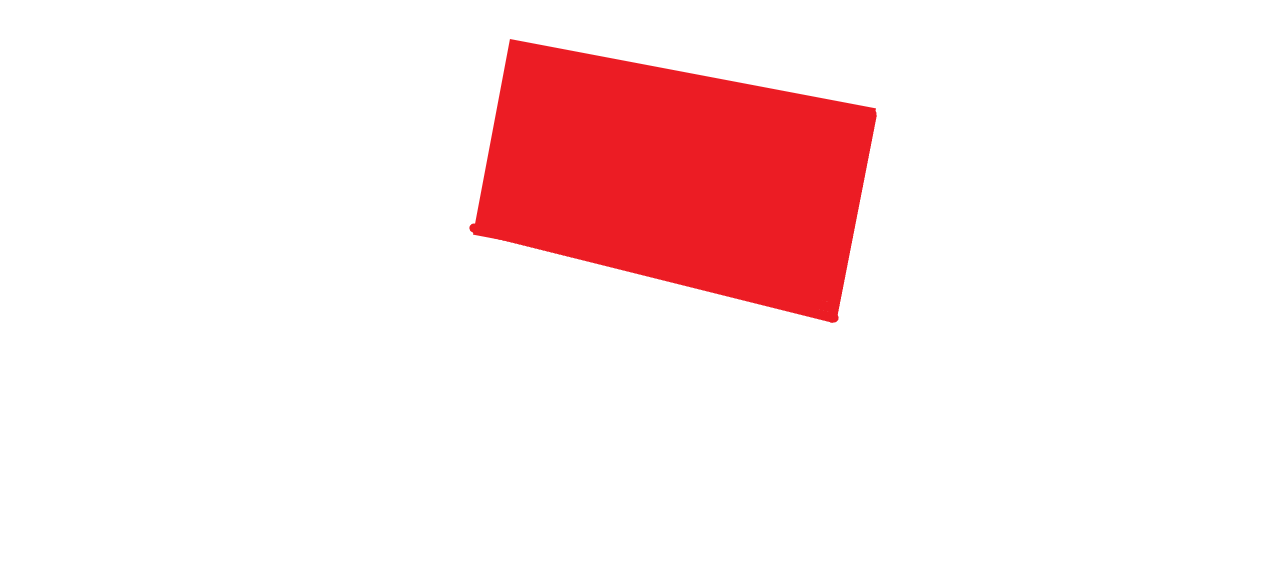
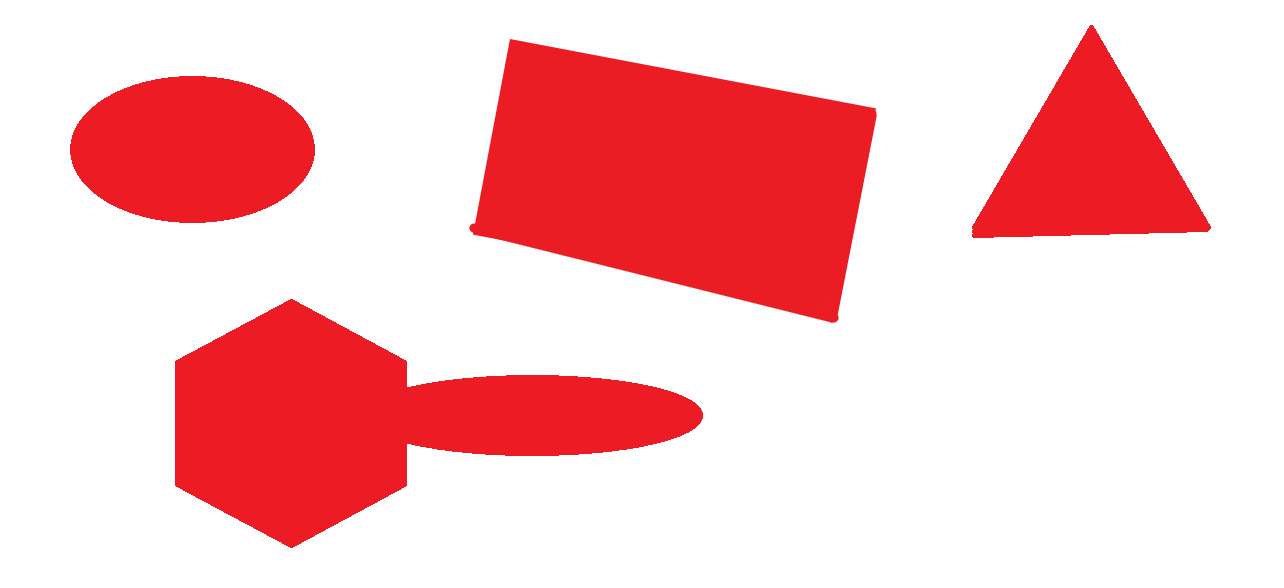
fixing bounding circles

Changed region(s): [[0.1246, 0.4898, 0.5607, 0.949], [0.0312, 0.1224, 0.2492, 0.398], [0.7477, 0.0306, 0.9657, 0.4286]]

diff --git a/src/ImageProcessing/Windows/MainWindow.xaml b/src/ImageProcessing/Windows/MainWindow.xaml
@@ -19,7 +19,9 @@
         <Menu Grid.Row="0" Grid.Column="0" Grid.ColumnSpan="2" >
             <MenuItem Header="Image" >
                 <MenuItem Header="Load" Click="LoadImage_Click"/>
-                <MenuItem Header="Process" Click="ProcessImage_Click"/>
+                <MenuItem Header="Find rectangles" Click="FindRectangles_Click"/>
+                <MenuItem Header="Find ovals" Click="FindOvals_Click"/>
+                <MenuItem Header="Find triangles" Click="FindTriangles_Click"/>
                 <MenuItem Header="Remove noise" Click="RemoveNoise_Click"/>
 
             </MenuItem>

diff --git a/src/ImageProcessing.Core/Services/ImageProcessingService.cs b/src/ImageProcessing.Core/Services/ImageProcessingService.cs
@@ -11,7 +11,7 @@ namespace ImageProcessing.Core.Services;
 
 public class ImageProcessingService : IImageProcessingService
 {
-    
+
     private static List<List<Point>> DetectObjects(PixelHsv[,] pixels, Predicate<PixelHsv> condition)
     {
         var result = new List<List<Point>>();
@@ -57,11 +57,11 @@ public class ImageProcessingService : IImageProcessingService
             var p1 = boundingPoints[i];
 
 
-            for (int j= i+20; j < boundingPoints.Count; j++)
+            for (int j = i + 20; j < boundingPoints.Count; j++)
             {
                 var p2 = boundingPoints[j];
                 var dist = Point.CalculateDistance(p1, p2);
-                if(dist > longestDistance)
+                if (dist > longestDistance)
                 {
                     extremeP1 = p1;
                     extremeP2 = p2;
@@ -176,18 +176,53 @@ public class ImageProcessingService : IImageProcessingService
     //    return new Ellipse(rect, angle, center);
     //}
 
-    private Ellipse GetBoundingCircle (List<Point> obj, PixelHsv[,] pixels, Predicate<PixelHsv> condition)
+    private Ellipse GetBoundingCircle(List<Point> obj, PixelHsv[,] pixels, Predicate<PixelHsv> condition)
     {
-        var (p1, p2, diameter) = GetExtremePoints(obj, pixels, condition);
+        var (center, radius) = FindBoundingCircle(obj, pixels, condition);
+        //var (p1, p2, diameter) = GetExtremePoints(obj, pixels, condition);
+        pixels[center.Row, center.Column].H = 150;
+        pixels[center.Row+1, center.Column].H = 150;
+        pixels[center.Row, center.Column+1].H = 150;
+        pixels[center.Row, center.Column-1].H = 150;
+        pixels[center.Row-1, center.Column].H = 150;
 
-        Size size = new Size(diameter, diameter);
-        System.Drawing.Point center = new System.Drawing.Point((p1.Column + p2.Column) / 2, (p1.Row + p2.Row) / 2);
+        Size size = new Size(radius*2, radius*2);
+        System.Drawing.Point drawingCenter = new System.Drawing.Point(center.Column, center.Row);
+            //new System.Drawing.Point((p1.Column + p2.Column) / 2, (p1.Row + p2.Row) / 2);
 
-        int h2 = size.Height / 2;
-        int w2 = size.Width / 2;
+        //int h2 = size.Height;
+        //int w2 = size.Width;
 
-        System.Drawing.Rectangle rect = new System.Drawing.Rectangle(new System.Drawing.Point(center.X - w2, center.Y - h2), size);
-        return new Ellipse(rect, 0f, center);
+        System.Drawing.Rectangle rect = new System.Drawing.Rectangle(new System.Drawing.Point(drawingCenter.X - radius, drawingCenter.Y - radius), size);
+        return new Ellipse(rect, 0f, drawingCenter);
+    }
+
+    private (Point center, int diameter) FindBoundingCircle(List<Point> obj, PixelHsv[,] pixels, Predicate<PixelHsv> condition)
+    {
+        var avgColumn = (int)obj.Average(p => p.Column);
+        var avgRow = (int)obj.Average(p => p.Row);
+
+        var center = new Point(avgRow, avgColumn);
+
+        var maxDistance = -1;
+
+        foreach (var p in obj)
+        {
+            if (p.Row != 0 && p.Row != pixels.GetLength(0) && p.Column != 0 && p.Column != pixels.GetLength(1) &&
+                condition(pixels[p.Row, p.Column - 1]) &&
+                condition(pixels[p.Row, p.Column + 1]) &&
+                condition(pixels[p.Row - 1, p.Column]) &&
+                condition(pixels[p.Row + 1, p.Column]))
+                continue;
+
+            var dist = Point.CalculateDistance(center, p);
+            if (dist > maxDistance)
+            {
+                maxDistance = dist;
+            }
+        }
+
+        return (center, maxDistance);
     }
 
     //private static IEnumerable<Rectangle> FindRectangles(PixelRgb[,] pixels)
@@ -266,7 +301,35 @@ public class ImageProcessingService : IImageProcessingService
     //    return new Rectangle(c, r, endC - c, endR - r);
     //}
 
-    public void ProcessPixels(Bitmap bitmap)
+    public void FindRectangles(Bitmap bitmap)
+    {
+        using var image = new BitmapLockAdapter(bitmap);
+
+        var hsv = image.ReadPixels().AsHsv();
+        Predicate<PixelHsv> predicate = p => p.IsWithinBounds(new PixelHsv(330, 0.3f, 0.3f), new PixelHsv(360, 1, 1)) ||
+                                             p.IsWithinBounds(new PixelHsv(0, 0.3f, 0.3f), new PixelHsv(30, 1, 1));
+        var objects = DetectObjects(hsv, predicate);
+
+        foreach (var obj in objects)
+        {
+            var rect = GetInsideRectangle(obj);
+
+            if (rect != null && rect.Area > obj.Count * 0.9f)
+            {
+                foreach (var (r, c) in obj)
+                {
+                    hsv[r, c].H = 110;
+                }
+            }
+        }
+        image.WritePixels(hsv
+            //.Cover(new PixelHsv(330, 0.3f, 0.3f), new PixelHsv(360, 1, 1), new PixelHsv(110, 0.95f, 0.95f))
+            //.Cover(new PixelHsv(0, 0.3f, 0.3f), new PixelHsv(30, 1, 1), new PixelHsv(110, 0.95f, 0.95f))
+            .AsRgb()
+        );
+    }
+
+    public void ShowBoundingCircles(Bitmap bitmap)
     {
         var ellipses = new List<Ellipse>();
 
@@ -279,16 +342,6 @@ public class ImageProcessingService : IImageProcessingService
 
             foreach (var obj in objects)
             {
-                var rect = GetInsideRectangle(obj);
-
-                if (rect != null && rect.Area > obj.Count * 0.9f)
-                {
-                    foreach (var (r, c) in obj)
-                    {
-                        hsv[r, c].H = 110;
-                    }
-                }
-
                 var ellipse = GetBoundingCircle(obj, hsv, predicate);
                 ellipses.Add(ellipse);
             }
@@ -299,7 +352,7 @@ public class ImageProcessingService : IImageProcessingService
             );
         }
 
-        foreach(var e in ellipses)
+        foreach (var e in ellipses)
         {
             using var pen = new Pen(Color.Blue, 2);
             using var graphics = Graphics.FromImage(bitmap);

diff --git a/src/ImageProcessing/Windows/MainWindow.xaml.cs b/src/ImageProcessing/Windows/MainWindow.xaml.cs
@@ -29,7 +29,7 @@ namespace ImageProcessing.Windows
 
             OriginalImage.Source = _bitmap.ToBitmapImage();
         }
-        private void ProcessImage_Click(object sender, RoutedEventArgs e)
+        private void FindRectangles_Click(object sender, RoutedEventArgs e)
         {
             if (_bitmap is null) return;
 
@@ -44,10 +44,48 @@ namespace ImageProcessing.Windows
             // OriginalImage.Source = _bitmap.ToBitmapImage();
 
             var bitmap = _bitmap.Clone(new Rectangle(0, 0, _bitmap.Width, _bitmap.Height), _bitmap.PixelFormat);
-            _imageProcessingService.ProcessPixels(bitmap);
+            _imageProcessingService.FindRectangles(bitmap);
             ProcessedImage.Source = bitmap.ToBitmapImage();
         }
 
+        private void FindOvals_Click(object sender, RoutedEventArgs e)
+        {
+            if (_bitmap is null) return;
+
+            // var rand = new Random();
+            // _imageProcessingService.DrawRectangle(_bitmap,
+            //     new Rectangle(rand.Next(0, _bitmap.Width),
+            //             rand.Next(0, _bitmap.Height),
+            //             rand.Next(100, 400),
+            //             rand.Next(100, 500)),
+            //     Color.FromArgb(255, 0, 0),
+            //     true);
+            // OriginalImage.Source = _bitmap.ToBitmapImage();
+
+            var bitmap = _bitmap.Clone(new Rectangle(0, 0, _bitmap.Width, _bitmap.Height), _bitmap.PixelFormat);
+            _imageProcessingService.ShowBoundingCircles(bitmap);
+            ProcessedImage.Source = bitmap.ToBitmapImage();
+        }
+
+
+        private void FindTriangles_Click(object sender, RoutedEventArgs e)
+        {
+            if (_bitmap is null) return;
+
+            // var rand = new Random();
+            // _imageProcessingService.DrawRectangle(_bitmap,
+            //     new Rectangle(rand.Next(0, _bitmap.Width),
+            //             rand.Next(0, _bitmap.Height),
+            //             rand.Next(100, 400),
+            //             rand.Next(100, 500)),
+            //     Color.FromArgb(255, 0, 0),
+            //     true);
+            // OriginalImage.Source = _bitmap.ToBitmapImage();
+
+            var bitmap = _bitmap.Clone(new Rectangle(0, 0, _bitmap.Width, _bitmap.Height), _bitmap.PixelFormat);
+            //_imageProcessingService.ProcessPixels(bitmap);
+            ProcessedImage.Source = bitmap.ToBitmapImage();
+        }
         private void RemoveNoise_Click(object sender, RoutedEventArgs e)
         {
             if (_bitmap is null) return;

diff --git a/src/ImageProcessing.Core/Interfaces/Services/IImageProcessingService.cs b/src/ImageProcessing.Core/Interfaces/Services/IImageProcessingService.cs
@@ -5,6 +5,7 @@ namespace ImageProcessing.Core.Interfaces.Services;
 public interface IImageProcessingService
 {
     //void DrawRectangle(Bitmap bitmap, Rectangle rectangle, Color color, bool fill);
-    void ProcessPixels(Bitmap pixels);
+    public void FindRectangles(Bitmap bitmap);
+    public void ShowBoundingCircles(Bitmap bitmap);
     void RemoveNoise(Bitmap pixels);
 }
